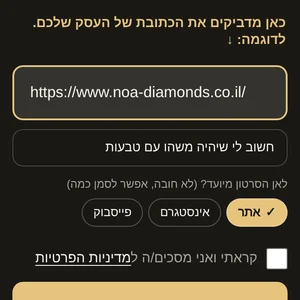
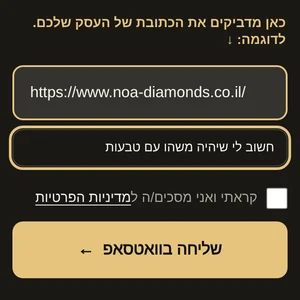
Scan form: remove the 'where is the video for' chips
Claude-Session: https://claude.ai/code/session_015Kj6wZhrCRAfSfrvuRRH85

diff --git a/index.html b/index.html
@@ -860,7 +860,6 @@ dialog .undo{bottom:24px}
             <input type="text" id="hscanUrl" data-r="url" inputmode="url" autocomplete="url" dir="ltr" placeholder="לדוגמה: https://www.noa-diamonds.co.il/">
             <label class="sr" for="hscanNote">הערות (לא חובה)</label>
             <input type="text" id="hscanNote" data-r="note" placeholder="הערות: מוצר ספציפי? רעיון ספציפי? ...">
-            <div class="hdest" data-r="dest" role="group" aria-labelledby="hdestL"><span class="hdest-l" id="hdestL">לאן הסרטון מיועד? <small>(לא חובה, אפשר לסמן כמה)</small></span><div class="hdest-b"><button type="button" aria-pressed="false">אתר</button><button type="button" aria-pressed="false">אינסטגרם</button><button type="button" aria-pressed="false">פייסבוק</button></div></div>
             <label class="agree hagree"><input type="checkbox" id="hscanAgree" data-r="agree"><span>קראתי ואני מסכים/ה ל<a href="privacy.html" target="_blank" rel="noopener">מדיניות הפרטיות</a></span></label>
             <p class="hscan-err" id="hscanErr" data-r="err" role="alert" hidden></p>
             <button class="btn gold" type="submit">שליחה בוואטסאפ <span class="arr" aria-hidden="true">←</span></button>
@@ -898,7 +897,7 @@ dialog .undo{bottom:24px}
       </div>
       <div class="hw-p" id="how-scan" role="tabpanel" aria-labelledby="hwt-scan">
         <p class="hw-line">מדביקים קישור לעסק, מקבלים 3 תסריטים בוואטסאפ, ובוחרים אחד.</p>
-        <div class="hw-row"><button type="button" class="hw-s" aria-expanded="false" data-big="how/a1.webp?11" data-h="מדביקים קישור לעסק" data-d="מדביקים קישור לאתר או לאינסטגרם. אנחנו &lt;b&gt;סורקים את העסק&lt;/b&gt;, לומדים את המוצרים והסגנון, ו&lt;b&gt;בוחרים רעיונות שמתאימים בדיוק לו&lt;/b&gt;." data-ill="0"><span class="ph"><img src="how/a1-s.webp?11" alt="" loading="lazy" width="300" height="300"><i aria-hidden="true">1</i></span><b>מדביקים קישור</b></button><button type="button" class="hw-s" aria-expanded="false" data-big="how/a2.webp?7" data-h="מקבלים 3 תסריטים ובוחרים" data-d="לומדים את המוצרים, הצבעים והסגנון שלכם, ושולחים לכם בוואטסאפ 3 תסריטים שנכתבו בשביל העסק שלכם. בכל תסריט: המוצר שנבחר מהאתר שלכם, הסיפור בקצרה, הסצנות והמחיר. עונים איזה תסריט אהבתם, למשל &quot;אחד נשמע טוב&quot;." data-ill="1"><span class="ph"><img src="how/a2-s.webp?7" alt="" loading="lazy" width="300" height="300"><i aria-hidden="true">2</i><em>המחשה</em></span><b>בוחרים תסריט</b></button><button type="button" class="hw-s" aria-expanded="false" data-big="how/a3.webp?7" data-h="מקבלים את הסרטון" data-d="תוך 2 ימי עסקים הסרטון מגיע אליכם בוואטסאפ, מוכן לאינסטגרם, לטיקטוק ולאתר. רוצים לשנות משהו קטן? כותבים לנו." data-ill="1"><span class="ph"><img src="how/a3-s.webp?7" alt="" loading="lazy" width="300" height="300"><i aria-hidden="true">3</i><em>המחשה</em></span><b>מקבלים סרטון</b></button></div>
+        <div class="hw-row"><button type="button" class="hw-s" aria-expanded="false" data-big="how/a1.webp?12" data-h="מדביקים קישור לעסק" data-d="מדביקים קישור לאתר או לאינסטגרם. אנחנו &lt;b&gt;סורקים את העסק&lt;/b&gt;, לומדים את המוצרים והסגנון, ו&lt;b&gt;בוחרים רעיונות שמתאימים בדיוק לו&lt;/b&gt;." data-ill="0"><span class="ph"><img src="how/a1-s.webp?12" alt="" loading="lazy" width="300" height="300"><i aria-hidden="true">1</i></span><b>מדביקים קישור</b></button><button type="button" class="hw-s" aria-expanded="false" data-big="how/a2.webp?7" data-h="מקבלים 3 תסריטים ובוחרים" data-d="לומדים את המוצרים, הצבעים והסגנון שלכם, ושולחים לכם בוואטסאפ 3 תסריטים שנכתבו בשביל העסק שלכם. בכל תסריט: המוצר שנבחר מהאתר שלכם, הסיפור בקצרה, הסצנות והמחיר. עונים איזה תסריט אהבתם, למשל &quot;אחד נשמע טוב&quot;." data-ill="1"><span class="ph"><img src="how/a2-s.webp?7" alt="" loading="lazy" width="300" height="300"><i aria-hidden="true">2</i><em>המחשה</em></span><b>בוחרים תסריט</b></button><button type="button" class="hw-s" aria-expanded="false" data-big="how/a3.webp?7" data-h="מקבלים את הסרטון" data-d="תוך 2 ימי עסקים הסרטון מגיע אליכם בוואטסאפ, מוכן לאינסטגרם, לטיקטוק ולאתר. רוצים לשנות משהו קטן? כותבים לנו." data-ill="1"><span class="ph"><img src="how/a3-s.webp?7" alt="" loading="lazy" width="300" height="300"><i aria-hidden="true">3</i><em>המחשה</em></span><b>מקבלים סרטון</b></button></div>
         <p class="hw-hint">לחיצה על תמונה פותחת הסבר מפורט.</p>
         <div class="hw-d" hidden><div class="hw-dimg"><img alt=""><em hidden>המחשה</em></div><div class="hw-dt"><h3></h3><p></p><button type="button" class="hw-dx">סגירה</button></div></div>
         <div class="hw-cta"><button class="btn gold" type="button" data-scan>שלחו לי רעיונות <span class="arr" aria-hidden="true">←</span></button></div>
